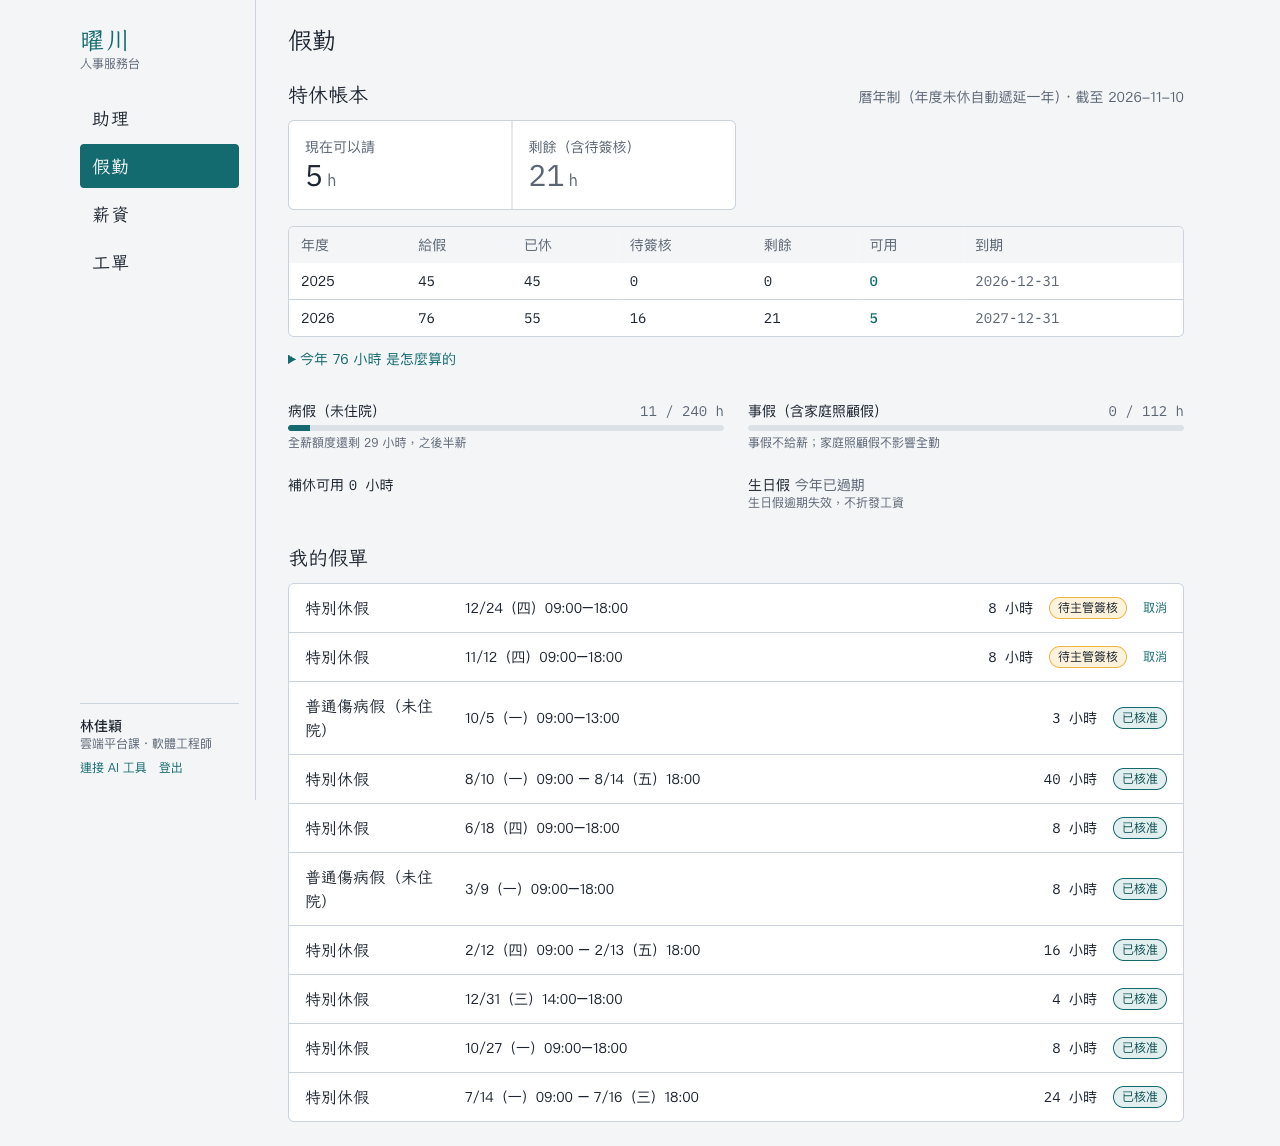
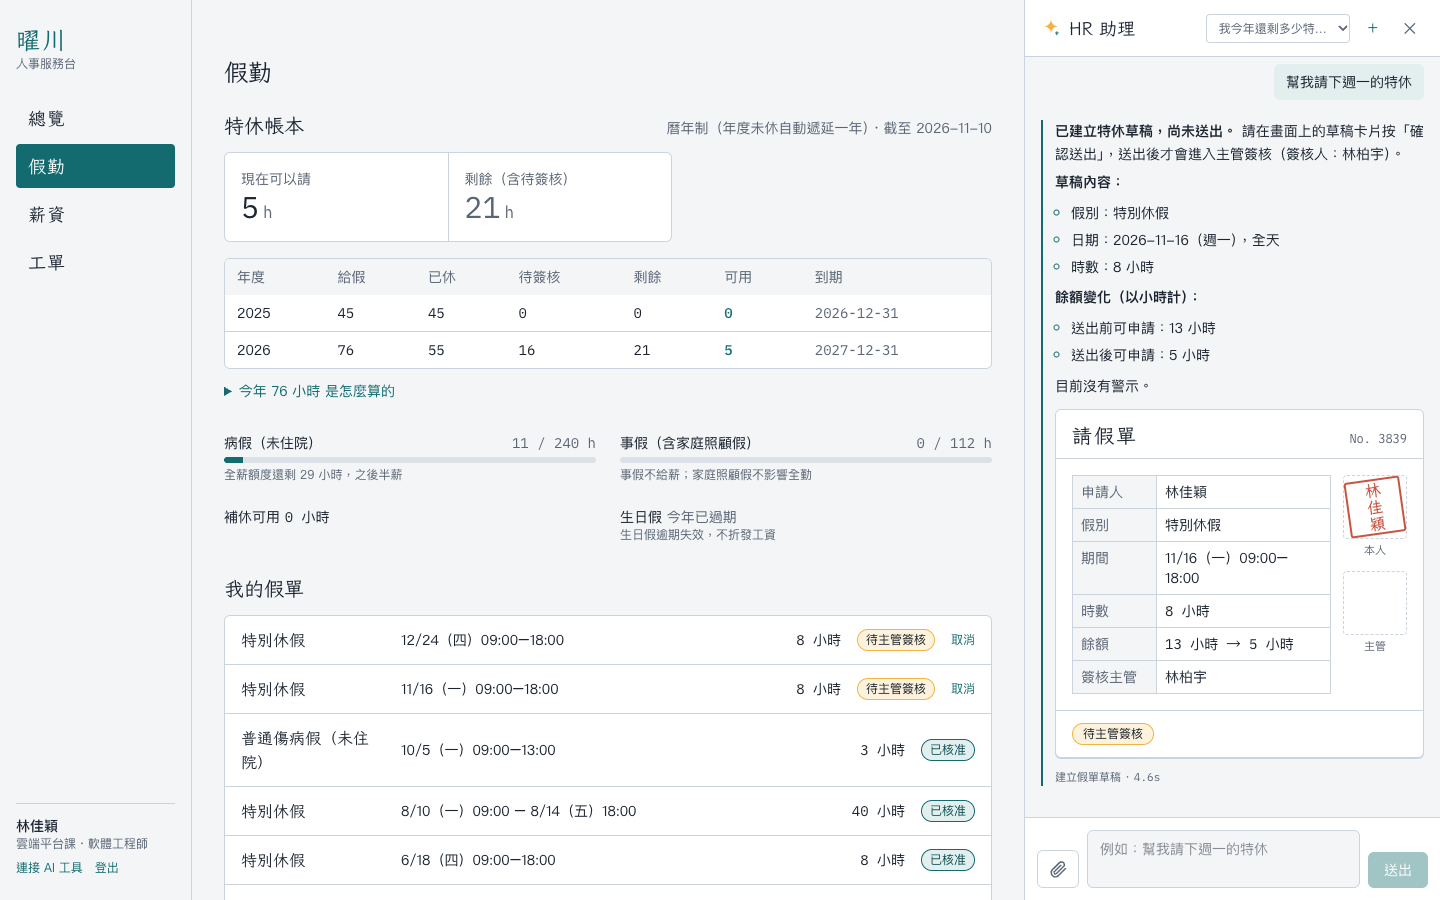
README 截圖更新為右側 AI 面板與上傳證明文件
- 首圖改為總覽＋右側助理（特休附計算過程）
- 新增上傳診斷證明截圖；簽核截圖顯示文件判讀摘要
- 其餘截圖依新版介面重拍（示範資料重建後以 Claude 錄製）

diff --git a/README.md b/README.md
@@ -4,7 +4,7 @@
 
 模型可以換成接入方自己的 AI（Claude、Microsoft Foundry、Azure OpenAI、vLLM、Ollama…），也可以用 MCP 把 hr360 的工具接到既有的 Agent 平台。
 
-![HR 助理建立請假單並送出](docs/images/chat-leave-slip.png)
+![總覽與右側 HR 助理：特休由計算引擎算出並附計算過程](docs/images/overview.png)
 
 ## 啟動
 
@@ -138,9 +138,11 @@ cd ../web && npm ci && npm run dev             # http://localhost:3000
 
 ## 截圖
 
-| 假勤帳本 | 主管簽核 |
+| 對話中建立請假單 | 拍照上傳診斷證明 |
 |---|---|
-| ![假勤帳本](docs/images/leave-ledger.png) | ![主管簽核](docs/images/approvals.png) |
+| ![對話中建立請假單](docs/images/chat-leave-slip.png) | ![上傳診斷證明自動建立病假草稿](docs/images/document-upload.png) |
+| **主管簽核（只看文件判讀摘要）** | **假勤帳本（送出後立即預扣）** |
+| ![主管簽核](docs/images/approvals.png) | ![假勤帳本](docs/images/leave-ledger.png) |
 | **稽核與模型自檢** | **手機：薪資單** |
 | ![稽核](docs/images/admin.png) | ![手機薪資單](docs/images/mobile-payslip.png) |
 
